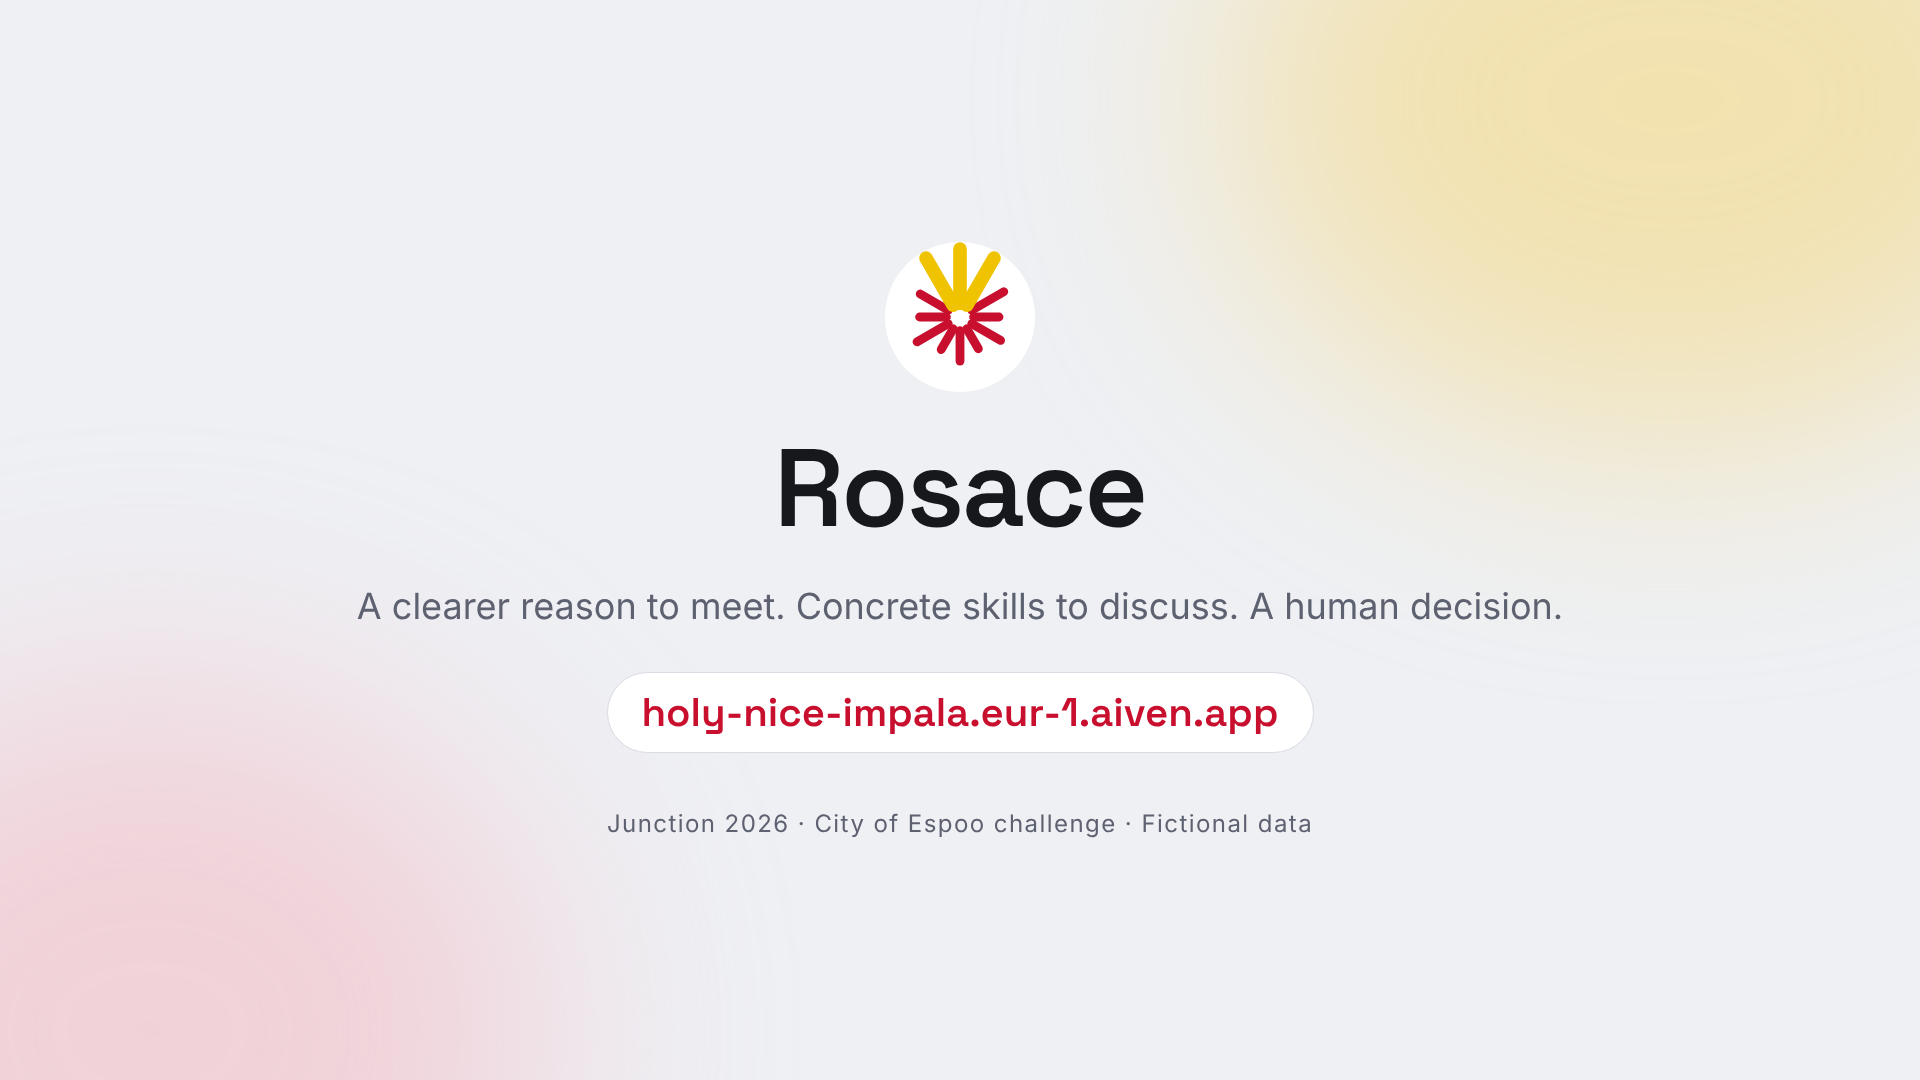
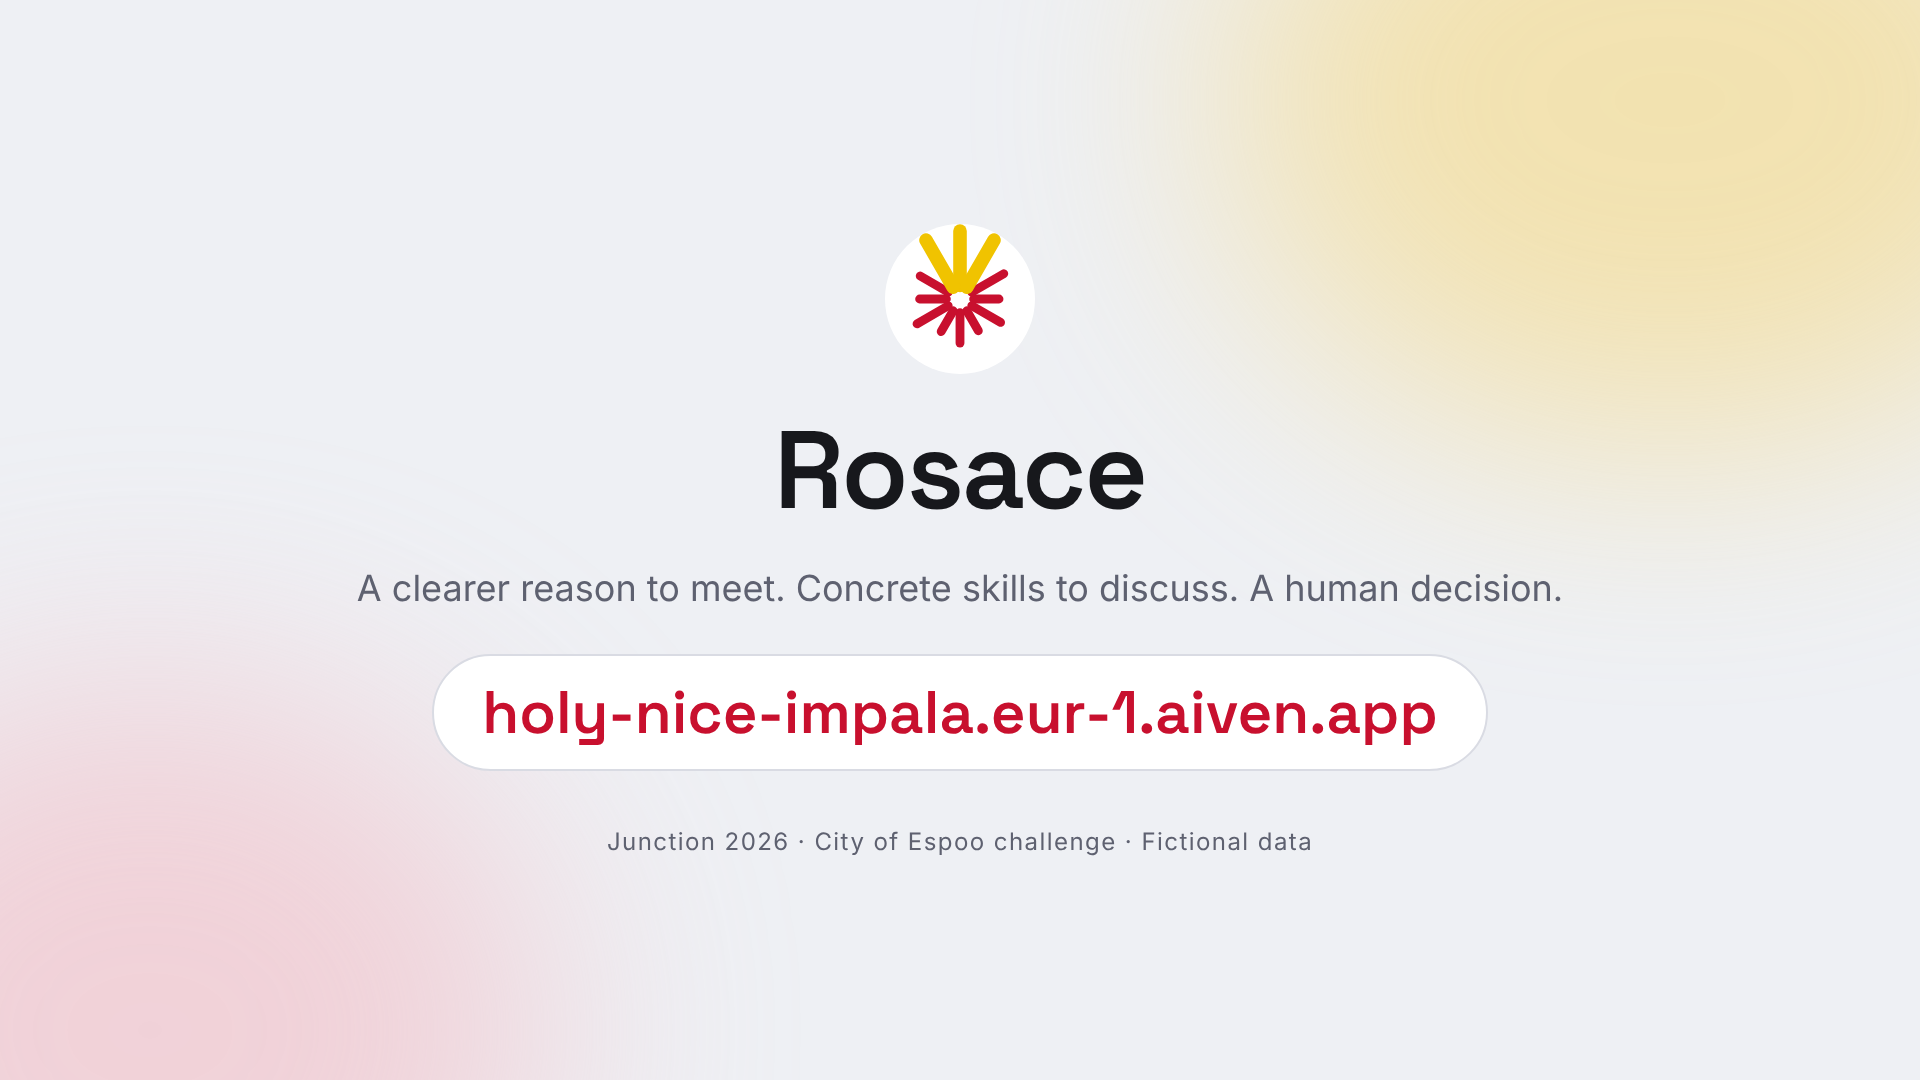
v7 video: zoomed Claude recommendation with a short annotation, larger URL on the end card
Claude-Session: https://claude.ai/code/session_011vqkV8benzX2r2ZUqME35v

diff --git a/demos/rosace-v2/scenes/endcard.html b/demos/rosace-v2/scenes/endcard.html
@@ -4,7 +4,7 @@
  .wrap img { width:150px; height:150px; }
  .wrap h1 { font-family:'SG'; font-size:110px; font-weight:600; letter-spacing:-0.02em; }
  .wrap p { font-size:36px; color:var(--muted); }
- .wrap .url { margin-top: 18px; font-family:'SG'; font-size: 40px; font-weight: 600; color: var(--red); background:#fff; border:1px solid var(--line); border-radius: 999px; padding: 14px 34px; }
+ .wrap .url { margin-top: 18px; font-family:'SG'; font-size: 60px; font-weight: 600; color: var(--red); background:#fff; border:2px solid var(--line); border-radius: 999px; padding: 18px 48px; }
  .wrap small { margin-top:30px; font-size:24px; color:var(--muted); letter-spacing:.06em; }
 </style></head><body><div class="stage"><div class="glow g1"></div><div class="glow g2"></div>
 <div class="wrap"><img src="rosace-logo.svg" alt=""><h1>Rosace</h1><p>A clearer reason to meet. Concrete skills to discuss. A human decision.</p><div class="url">holy-nice-impala.eur-1.aiven.app</div><small>Junction 2026 · City of Espoo challenge · Fictional data</small></div></div></body></html>

diff --git a/demos/rosace-v2/assemble4.py b/demos/rosace-v2/assemble4.py
@@ -10,6 +10,11 @@ PROMPT = (960, 540, 390, 360)        # exercise prompt + timer
 REC = (1180, 664, 370, 300)          # Claude's recommendation and criteria
 GRADE = (1440, 810, 380, 150)        # grade buttons + observed rosace
 ASIDE = (450, 420, 1335, 180, 960, 540)  # the observed rosace card alone, padded on the app background
+REC_A = (960, 484, 400, 350, 960, 540, "top")  # recommendation + 3 criteria x2, plain band at the bottom for captions
+REC_B = (1007, 566, 360, 420)        # third criterion, quote and the human "Validate" button, above the captions
+NOTE = "C — Correct fix, but remaining risks not explained."   # matches the 3rd criterion (partial)
+NOTE_A = (NOTE, "w-tw-60", 18)       # top right, beside the grade title
+NOTE_B = (NOTE, "720", 885)          # right of the Validate button, clear of the captions
 ZWIN = (1400, 788, 250, 120)         # main column while the recording is already zoomed in
 TYPE = (1400, 788, 250, 190)         # timer, prompt and answer while typing (zoomed)
 ENC = ["-c:v", "libx264", "-preset", "medium", "-crf", "18", "-pix_fmt", "yuv420p", "-r", "30",
@@ -27,7 +32,7 @@ SEGS = {
     14: (V1, [(86.7, 91.0, WIN, None, None), (99.3, 105.0, WIN, None, None)], 0.3),
     21: (CODE, [(3.0, 5.3, ZWIN, 1.3, None), (5.3, 9.9, PROMPT, 3.6, None),
                 (11.5, 19.4, TYPE, 4.0, "Demo answer, typed for this video"), (21.0, 22.6, WIN, 0.7, None)], 0),
-    22: (CODE, [(33.2, 36.3, ZWIN, 2.3, None), (42.6, 49.4, REC, 5.8, None), (49.4, 50.8, REC, 1.2, None),
+    22: (CODE, [(33.2, 36.3, ZWIN, 2.3, None), (42.6, 46.6, REC_A, 3.6, NOTE_A), (46.6, 49.4, REC_B, 2.2, NOTE_B), (49.4, 50.8, REC_B, 1.2, NOTE_B),
                 (50.8, 53.4, GRADE, 1.5, None)], 0),
     43: (CODE, [(53.4, 55.9, ASIDE, 2.4, None)], 0),
     15: (V1, [(128.4, 145.5, WIN, None, None)], 0.3),
@@ -45,10 +50,12 @@ def tool(c):
     for i, (a, b, cr, d, label) in enumerate(ranges):
         sp = (b - a) / d if d else k
         w, h, x, y = cr[:4]
-        pad = f",pad={cr[4]}:{cr[5]}:(ow-iw)/2:(oh-ih)/2:color=0xE9E8ED" if len(cr) > 4 else ""
+        py = "0" if len(cr) > 6 else "(oh-ih)/2"
+        pad = f",pad={cr[4]}:{cr[5]}:(ow-iw)/2:{py}:color=0xEDEDF5" if len(cr) > 4 else ""
         f = f"[0:v]trim={a}:{b},setpts=(PTS-STARTPTS)/{sp:.4f},crop={w}:{h}:{x}:{y}{pad},scale=1920:1080:flags=lanczos,setsar=1,fps=30"
         if label:
-            f += (f",drawtext=fontfile={FONT}:text='{label}':x=w-tw-60:y=60:fontsize=30:fontcolor=white"
+            label, lx, ly = label if isinstance(label, tuple) else (label, "w-tw-60", 60)
+            f += (f",drawtext=fontfile={FONT}:text='{label}':x={lx}:y={ly}:fontsize=30:fontcolor=white"
                   f":box=1:boxcolor=0x17181C@1:boxborderw=16")
         parts.append(f + f"[r{i}]")
     L = max(narr, sum(d if d else (b - a) / k for a, b, cr, d, l in ranges))
